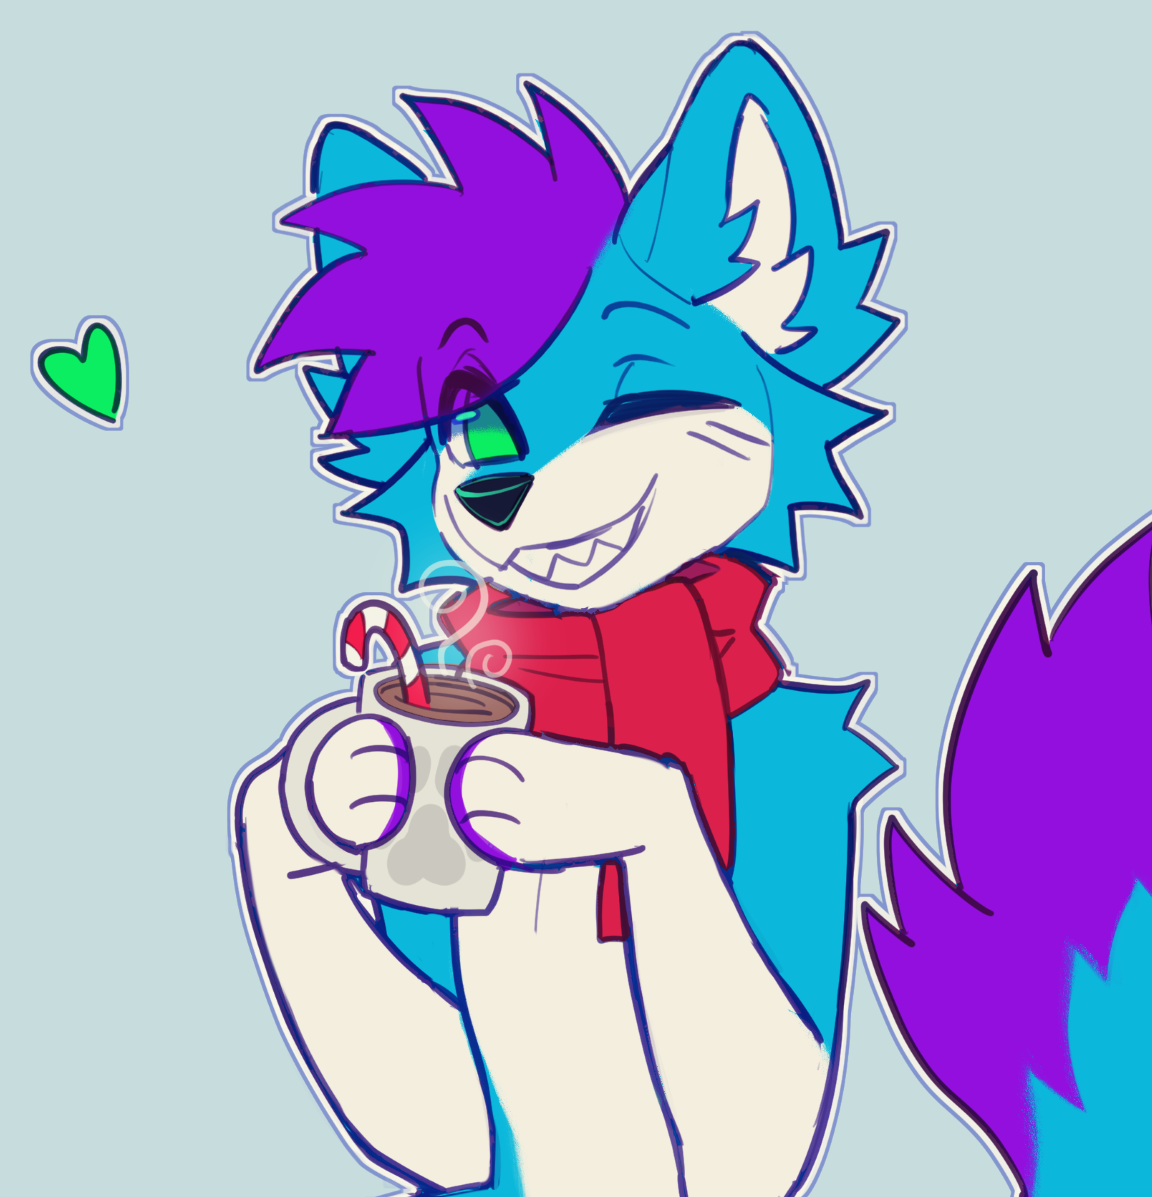
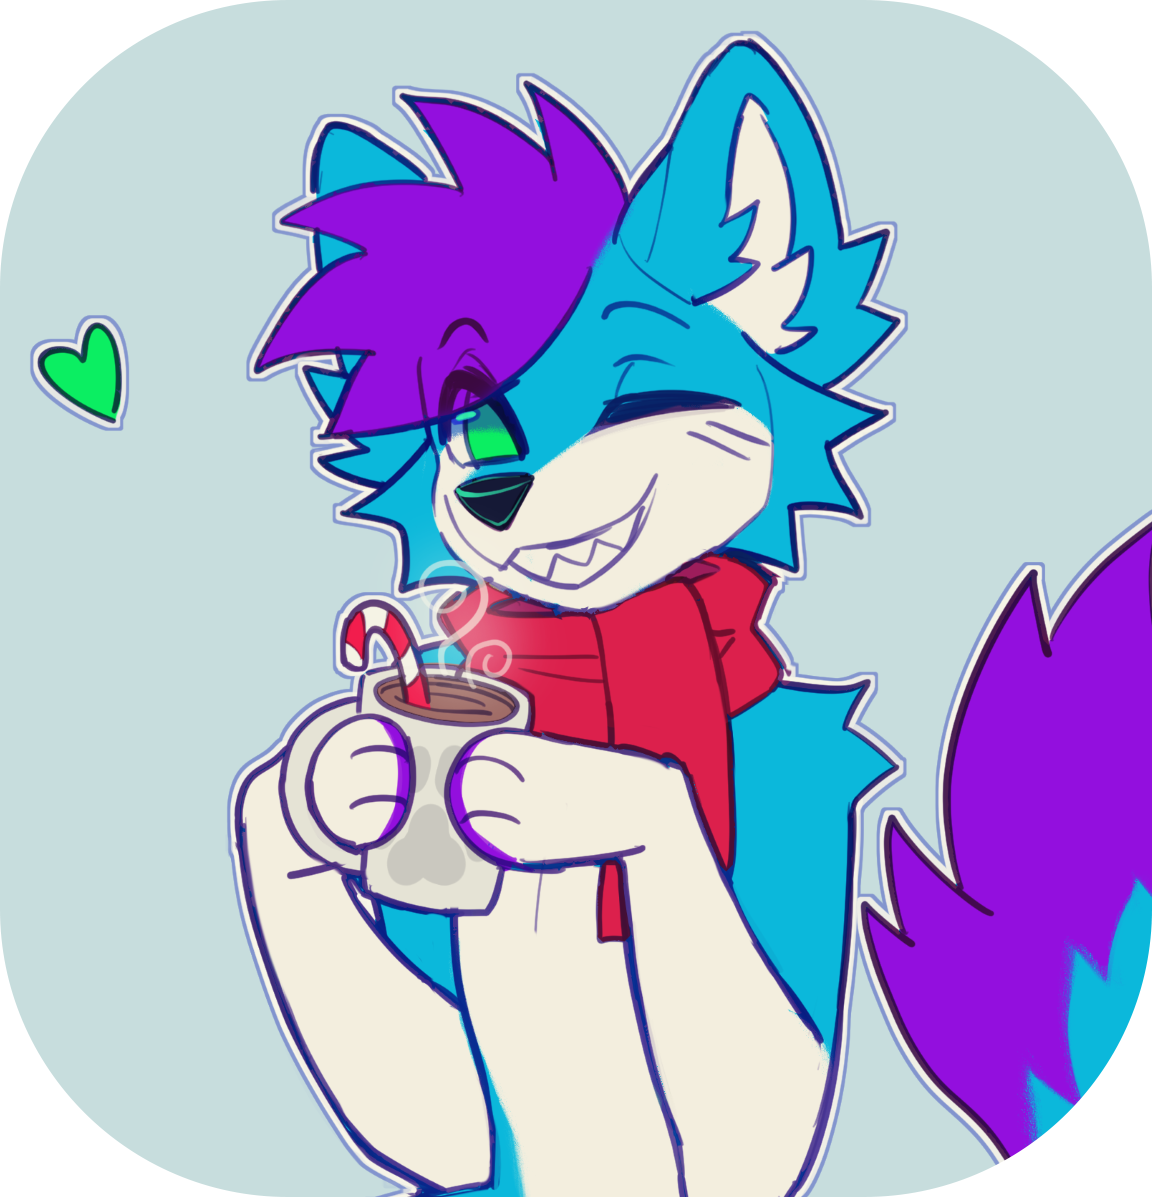
fixed images

diff --git a/README.md b/README.md
@@ -18,7 +18,7 @@ or [StreamElements](https://streamelements.com/Soupsu/tip)
 * Graphics processing
 * Web development (prefer backend)
 
-<img src="skullmutt.png" width="30%" align="right" style="border-radius: 25%">
+<img src="skullmutt.png" width="30%" align="right">
 
 ## Favorite languages:
 * C++
@@ -32,7 +32,7 @@ or [StreamElements](https://streamelements.com/Soupsu/tip)
 * [*YouTube*](https://youtube.com/soupsepicgames)
 * [*Instagram*](https://instagram.com/wllew4)
 
-<img src="skullmutt2.jpg" width="30%" align="right" style="border-radius: 25%">
+<img src="skullmutt2.png" width="30%" align="right">
 
 ## Featured art by:
 * [Flour and Butter](https://twitter.com/creamy_roux)
